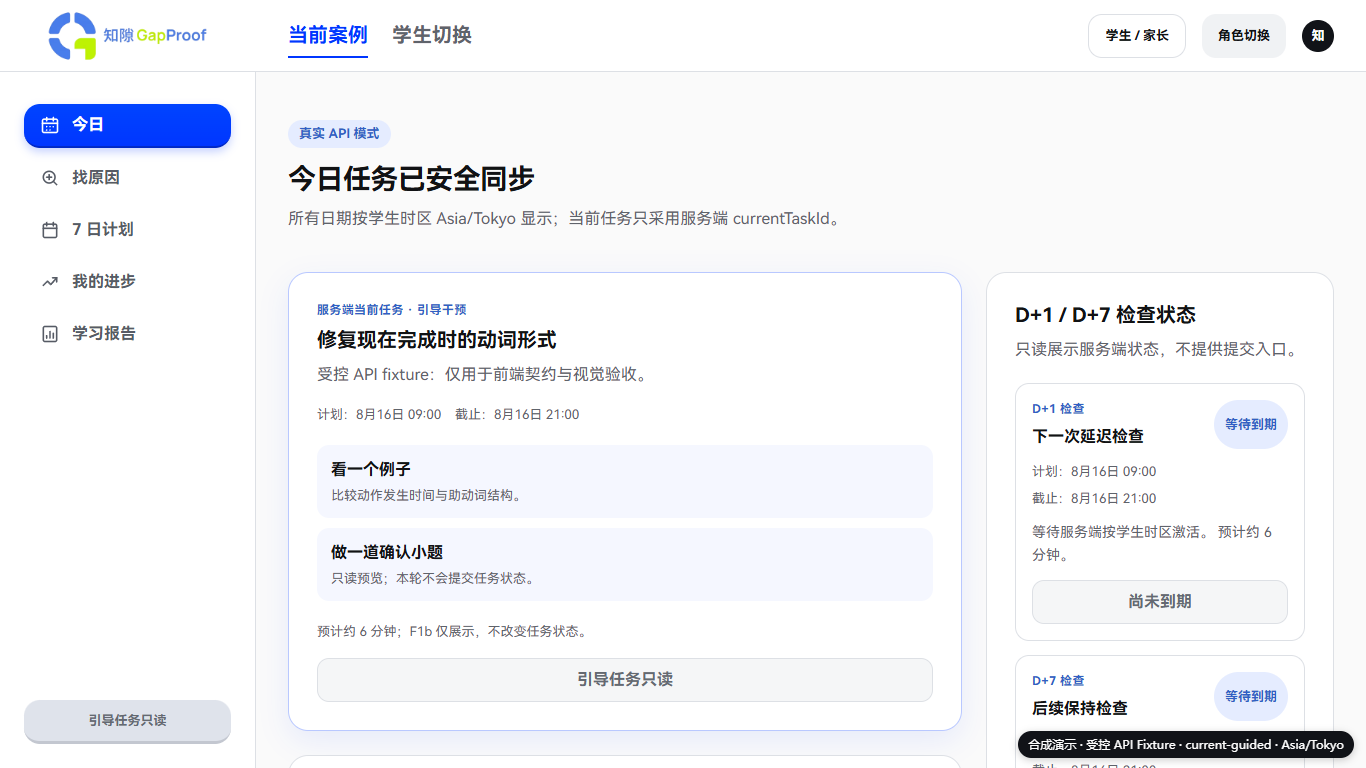
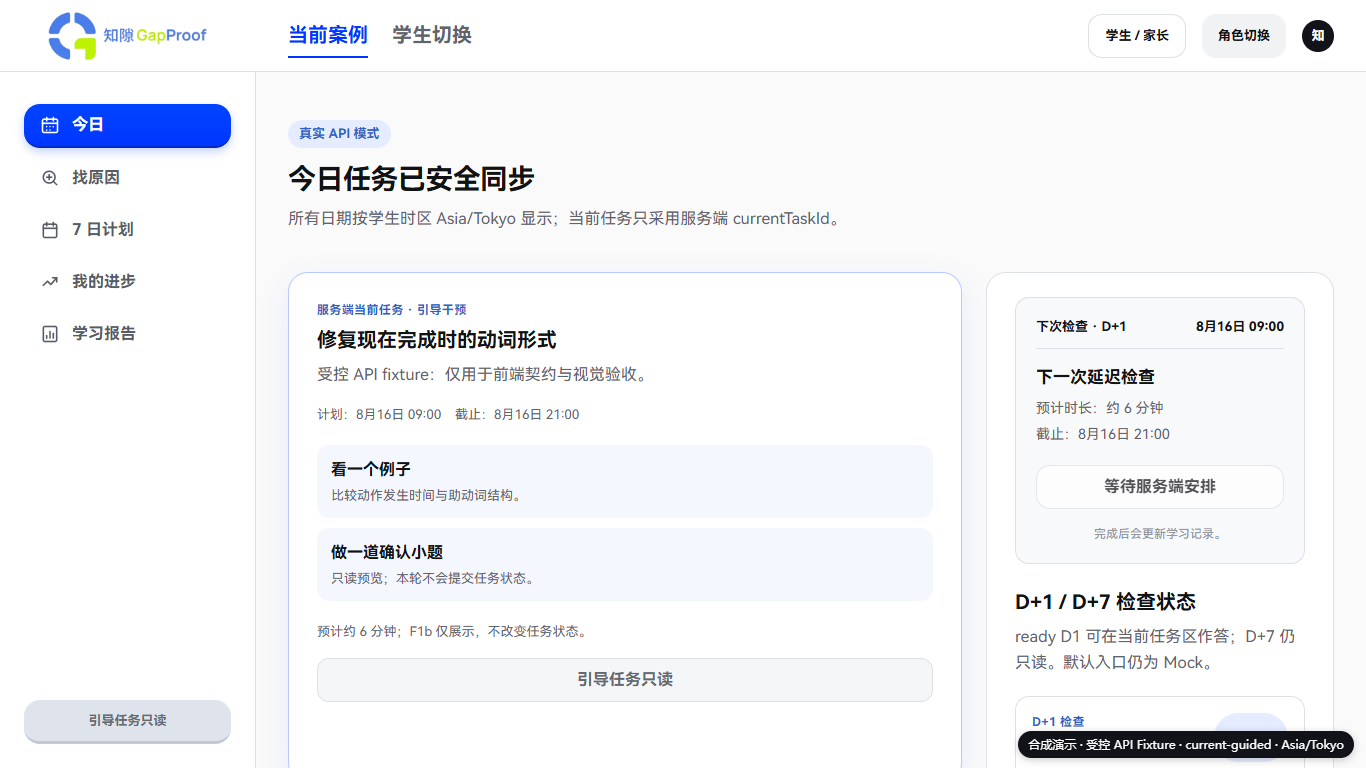
feat(web): render Today overview projection

Changed region(s): [[0.7379, 0.375, 0.9531, 0.9688], [0.8917, 0.875, 0.9531, 0.9688], [0.8917, 0.5312, 0.9531, 0.5625]]

diff --git a/apps/web/components/live-today.tsx b/apps/web/components/live-today.tsx
@@ -1,10 +1,11 @@
-import type { D1RetestTaskView, GuidedInterventionTaskView } from "@gapproof/contracts";
+import type { D1RetestTaskView, GuidedInterventionTaskView, TodayOverview } from "@gapproof/contracts";
 import { AppShell } from "./app-shell";
 import { D1AttemptPanel } from "./d1-attempt-panel";
 import { ApiClientError } from "@/lib/api-client";
 import { WebConfigurationError } from "@/lib/runtime-config";
 import {
   formatTaskDateTime,
+  TodayOverviewContractError,
   toTodayReadModel,
   type CurrentTaskSelection,
   type RetestTaskView,
@@ -20,6 +21,82 @@ function TaskDates({
     <span>计划：{formatTaskDateTime(scheduledFor, timeZone)}</span>
     {dueAt ? <span>截止：{formatTaskDateTime(dueAt, timeZone)}</span> : null}
   </div>;
+}
+
+function activityLevel(completedTaskCount: number): string {
+  return `activity-level-${Math.min(completedTaskCount, 3)}`;
+}
+
+const progressCopy: Record<TodayOverview["recentProgress"][number]["kind"], string> = {
+  recognition_confirmed: "学习材料已确认",
+  diagnosis_checked: "完成了一次学习检查",
+  practice_completed: "完成了一次练习",
+  d1_passed: "一次延迟检查已完成，下一次已安排",
+  d1_needs_followup: "这次检查后还需要再练习",
+  plan_adjusted: "后续学习安排已更新",
+};
+
+function OverviewActivity({ overview }: { overview: TodayOverview }) {
+  return <section className="overview-activity" aria-labelledby="activity-title">
+    <h3 id="activity-title">本周学习足迹</h3>
+    <div className="day-grid server-day-grid" role="list" aria-label="服务端记录的本周学习足迹">
+      {overview.activityDays.map((day, index) => <span
+        className={`${activityLevel(day.completedTaskCount)}${index === overview.activityDays.length - 1 ? " today" : ""}`}
+        data-local-date={day.localDate}
+        key={day.localDate}
+        role="listitem"
+        aria-label={`${day.localDate}，完成任务 ${day.completedTaskCount} 项`}
+        title={`${day.localDate}：完成任务 ${day.completedTaskCount} 项`}
+      />)}
+    </div>
+    <p>{overview.activityDays[overview.activityDays.length - 1]?.localDate} 为今天；颜色深浅仅表示服务端完成任务数。</p>
+  </section>;
+}
+
+function OverviewGoal({ overview }: { overview: TodayOverview }) {
+  return <section className="overview-goal" aria-labelledby="goal-title">
+    <h3 id="goal-title">本周目标</h3>
+    {overview.weeklyGoal
+      ? <p data-weekly-goal>{overview.weeklyGoal.completedDays} / {overview.weeklyGoal.targetDays} 天</p>
+      : <p data-weekly-goal="unset">目标待设置</p>}
+    <span>{overview.weeklyGoal ? "按服务端已设置的目标显示" : "暂无明确周目标"}</span>
+  </section>;
+}
+
+function OverviewPending({ overview }: { overview: TodayOverview }) {
+  const count = overview.pendingConfirmationCount;
+  return <article className="lime-card overview-fact-card" data-pending-confirmations={count}>
+    <div className="lime-heading"><h3>等你确认</h3></div>
+    <p>{count > 0 ? `有 ${count} 项内容等你确认。` : "当前没有待确认事项。"}</p>
+  </article>;
+}
+
+function OverviewProgress({ overview }: { overview: TodayOverview }) {
+  return <article className="lime-card overview-fact-card" data-recent-progress-count={overview.recentProgress.length}>
+    <div className="lime-heading"><h3>最近进展</h3></div>
+    {overview.recentProgress.length
+      ? <ul className="recent-progress-list">{overview.recentProgress.slice(0, 2).map(progress => <li key={progress.eventId}>{progressCopy[progress.kind]}</li>)}</ul>
+      : <p>暂无新的学习进展。</p>}
+  </article>;
+}
+
+export function TodayOverviewPanel({ overview }: { overview: TodayOverview }) {
+  return <article className="live-panel overview-panel" data-today-overview>
+    <h2>今日概览</h2>
+    <div className="overview-summary"><OverviewActivity overview={overview}/><OverviewGoal overview={overview}/></div>
+    <div className="overview-facts"><OverviewPending overview={overview}/><OverviewProgress overview={overview}/></div>
+  </article>;
+}
+
+export function OverviewNextCheck({ nextCheck, timeZone }: { nextCheck: TodayOverview["nextCheck"]; timeZone: string }) {
+  if (!nextCheck) return <section className="next-check" data-next-check="none"><header><span>下次检查</span><strong>尚未安排</strong></header><p>暂无已安排检查。</p></section>;
+  const cycle = nextCheck.taskType === "d7_retest" ? "D+7" : "D+1";
+  return <section className="next-check" data-next-check={nextCheck.taskType}>
+    <header><span>下次检查 · {cycle}</span><strong>{formatTaskDateTime(nextCheck.scheduledFor, timeZone)}</strong></header>
+    <div><h2>{nextCheck.title}</h2><p>预计时长：约 {nextCheck.estimatedMinutes} 分钟</p>{nextCheck.dueAt ? <p>截止：{formatTaskDateTime(nextCheck.dueAt, timeZone)}</p> : null}</div>
+    <button type="button" disabled>{nextCheck.taskType === "d7_retest" ? "D+7 检查只读" : "等待服务端安排"}</button>
+    <small>{nextCheck.taskType === "d7_retest" ? "D+7 作答尚未接入，本轮保持只读。" : "完成后会更新学习记录。"}</small>
+  </section>;
 }
 
 export function RetestCard({
@@ -128,6 +205,10 @@ function LiveError({ error }: { error: unknown }) {
     title = "学生时区无法用于日期显示";
     detail = "页面拒绝回退到浏览器、服务器或固定时区，请修正服务端学生时区。";
     code = "TODAY_TIME_ZONE_INVALID";
+  } else if (error instanceof TodayOverviewContractError) {
+    title = "今日概览暂不可用";
+    detail = "服务端尚未返回必需的今日概览数据；页面没有回退到 Mock。";
+    code = error.code;
   }
   return <AppShell actionDisabled actionLabel="等待配置">
     <section className="today-page"><div className="title-row"><div><span className="status-chip error">真实 API 模式</span><h1>{title}</h1><p>{detail}</p><div className="config-detail">{code}</div></div></div></section>
@@ -154,12 +235,9 @@ export async function LiveToday() {
         <div className="live-today-grid">
           <div className="live-main-column">
             <CurrentPanel current={model.current} timeZone={model.timeZone}/>
-            <article className="live-panel unavailable-panel"><h2>尚无真实首页投影</h2><div className="unavailable-list">
-              <div className="unavailable-row"><strong>本周学习足迹</strong><span>当前接口没有真实投影，未显示 Mock 数据。</span></div>
-              <div className="unavailable-row"><strong>周目标、待确认与最近进展</strong><span>当前接口没有真实投影，保持不可用态。</span></div>
-            </div></article>
+            <TodayOverviewPanel overview={model.overview}/>
           </div>
-          <aside className="live-panel"><h2>D+1 / D+7 检查状态</h2><p>ready D1 可在当前任务区作答；D+7 仍只读。默认入口仍为 Mock。</p><div className="retest-list">
+          <aside className="live-panel"><OverviewNextCheck nextCheck={model.overview.nextCheck} timeZone={model.timeZone}/><h2>D+1 / D+7 检查状态</h2><p>ready D1 可在当前任务区作答；D+7 仍只读。默认入口仍为 Mock。</p><div className="retest-list">
             {model.retests.length
               ? model.retests.map(retest => <RetestCard key={retest.id} retest={retest} timeZone={model.timeZone}/>)
               : <div className="unavailable-row"><strong>暂无延迟检查</strong><span>服务端创建后才会显示。</span></div>}

diff --git a/apps/web/app/globals.css b/apps/web/app/globals.css
@@ -41,4 +41,7 @@ a:focus-visible,button:focus-visible,summary:focus-visible{outline:2px solid var
 @media (max-width:900px){.fixed-action.disabled:after{content:"等待"}}
 @media (max-width:900px){.live-today-grid{grid-template-columns:1fr}}
 @media (max-width:640px){html,body{height:auto;min-height:100%;overflow:auto}.app-shell{display:block;height:auto;min-height:100vh;min-height:100dvh;overflow:visible}.topbar{height:64px;position:sticky;top:0}.brand-crop{width:150px;height:63px}.brand-source{width:158px!important;height:158px!important;left:-4px}.top-tabs,.top-actions,.sidebar{display:none}.mobile-menu{display:block;position:fixed;right:12px;top:10px;z-index:8}.mobile-menu summary{list-style:none;width:44px;height:44px;display:grid;place-items:center;border-radius:12px;background:var(--surface-2);cursor:pointer}.mobile-menu summary svg{width:24px}.mobile-menu nav{position:absolute;right:0;top:50px;width:190px;display:grid;padding:10px;background:#fff;border:1px solid var(--border);border-radius:14px;box-shadow:0 12px 32px rgba(17,18,20,.12)}.mobile-menu nav a{min-height:44px;padding:8px 12px}.content{height:auto;min-height:calc(100vh - 64px);overflow:visible;overscroll-behavior:auto}.today-page,.placeholder-page{padding:24px 18px 92px}.title-row{display:block;margin-bottom:24px}.title-row h1,.placeholder-page h1{font-size:27px}.date-summary{text-align:left;margin-top:14px}.today-grid{display:block}.hero-card{height:auto;min-height:460px;padding:24px 20px}.hero-meta{align-items:flex-start;gap:8px;flex-wrap:wrap}.hero-card h2{font-size:25px}.steps{align-items:stretch;flex-direction:column;margin:26px 0}.steps li+li:before{display:none}.overview{padding:18px;margin-bottom:22px}.overview-grid,.onboarding-notes{grid-template-columns:1fr}.right-column{display:grid;grid-template-columns:1fr}.day-grid{gap:7px}.onboarding-main{padding:24px 18px}.button-row{align-items:stretch;flex-direction:column}.ghost-link{justify-content:center}.state-card{padding:28px 20px;display:block}.state-card>svg{margin-bottom:20px}.sk-title{width:100%}.sk-line{width:80%}.sk-hero{height:440px}.right-column{margin-top:24px}}
+
+.overview-panel h2{margin-bottom:20px}.overview-summary{display:grid;grid-template-columns:minmax(0,1.5fr) minmax(180px,1fr);gap:24px}.overview-activity h3,.overview-goal h3{font-size:15px;line-height:22px;margin:0 0 12px}.overview-activity p,.overview-goal span{display:block;color:var(--ink-2);font-size:13px;line-height:20px;margin:0}.server-day-grid{grid-template-columns:repeat(7,32px);margin-bottom:20px}.server-day-grid .activity-level-0{background:#eef0f2}.server-day-grid .activity-level-1{background:#b8c7ff}.server-day-grid .activity-level-2{background:#5577ff}.server-day-grid .activity-level-3{background:#0036ff}.server-day-grid .today{outline:2px solid #0036ff;outline-offset:2px}.overview-goal{padding:16px;border:1px solid var(--border);border-radius:14px;background:#f8f9fb}.overview-goal p{font-size:24px;line-height:32px;font-weight:750;margin:0 0 4px}.overview-facts{display:grid;grid-template-columns:1fr 1fr;gap:16px;margin-top:24px}.overview-fact-card{min-height:142px}.overview-fact-card p{max-width:100%}.recent-progress-list{display:grid;gap:8px;margin:0;padding:0;list-style:none;font-size:14px;line-height:21px;position:relative;z-index:2}.next-check{margin-bottom:24px}.next-check p{margin:0 0 4px}.next-check button{cursor:default}.next-check button:disabled{opacity:.72}.live-panel>.next-check{box-shadow:none;border-radius:14px;margin:-4px 0 24px;padding:20px;background:#f8f9fb}.live-panel>.next-check header{font-size:13px}.live-panel>.next-check h2{font-size:17px;line-height:24px}.live-panel>.next-check small{color:var(--ink-3)}
+@media (max-width:640px){.overview-summary,.overview-facts{grid-template-columns:1fr}}
 @media (prefers-reduced-motion:reduce){*,*:before,*:after{scroll-behavior:auto!important;animation-duration:.01ms!important;animation-iteration-count:1!important;transition-duration:.01ms!important}}

diff --git a/apps/web/components/live-today.test.tsx b/apps/web/components/live-today.test.tsx
@@ -1,8 +1,8 @@
-import type { D1RetestTaskView, D7RetestTaskView } from "@gapproof/contracts";
+import type { D1RetestTaskView, D7RetestTaskView, TodayOverview } from "@gapproof/contracts";
 import { createElement } from "react";
 import { renderToStaticMarkup } from "react-dom/server";
 import { describe, expect, it, vi } from "vitest";
-import { RetestCard } from "./live-today";
+import { OverviewNextCheck, RetestCard, TodayOverviewPanel } from "./live-today";
 
 vi.mock("server-only", () => ({}));
 
@@ -57,5 +57,66 @@ describe("D+1/D+7 read-only cards", () => {
     expect(d7).toContain("D+7 检查只读");
     expect(d7).toContain("只读待接入");
     expect(d7).not.toContain("可以检查");
+  });
+});
+
+const overview: TodayOverview = {
+  activityDays: Array.from({ length: 7 }, (_, index) => ({
+    localDate: `2026-08-${String(10 + index).padStart(2, "0")}`,
+    completedTaskCount: index === 6 ? 2 : index === 5 ? 1 : 0,
+  })),
+  weeklyGoal: { targetDays: 5, completedDays: 2 },
+  pendingConfirmationCount: 2,
+  recentProgress: [{
+    eventId: "0198b111-1111-7000-8000-000000000030",
+    caseId: "22222222-2222-4222-8222-222222222222",
+    kind: "practice_completed",
+    occurredAt: "2026-08-15T01:00:00.000Z",
+  }],
+  nextCheck: {
+    taskId: "0198b111-1111-7000-8000-000000000021",
+    taskType: "d7_retest",
+    title: "D+7 延迟检查",
+    scheduledFor: "2026-08-22T01:00:00.000Z",
+    dueAt: "2026-08-22T13:00:00.000Z",
+    estimatedMinutes: 5,
+  },
+};
+
+describe("Today overview projection", () => {
+  it("renders only service facts and neutral progress copy", () => {
+    const html = renderToStaticMarkup(createElement(TodayOverviewPanel, { overview }));
+    expect(html).toContain('data-local-date="2026-08-16"');
+    expect(html).toContain('data-pending-confirmations="2"');
+    expect(html).toContain("2 / 5 天");
+    expect(html).toContain("完成了一次练习");
+    expect(html).not.toContain("eventId");
+    expect(html).not.toContain("caseId");
+    expect(html).not.toContain("已掌握");
+  });
+
+  it("keeps a D7 next check read-only and handles no check", () => {
+    const d7 = renderToStaticMarkup(createElement(OverviewNextCheck, { nextCheck: overview.nextCheck, timeZone: "Asia/Tokyo" }));
+    expect(d7).toContain("D+7 检查只读");
+    expect(d7).toContain("disabled");
+    const none = renderToStaticMarkup(createElement(OverviewNextCheck, { nextCheck: null, timeZone: "Asia/Tokyo" }));
+    expect(none).toContain("暂无已安排检查");
+  });
+
+  it("does not invent activity or progress for a new-user overview", () => {
+    const empty: TodayOverview = {
+      ...overview,
+      activityDays: overview.activityDays.map(day => ({ ...day, completedTaskCount: 0 })),
+      weeklyGoal: null,
+      pendingConfirmationCount: 0,
+      recentProgress: [],
+      nextCheck: null,
+    };
+    const html = renderToStaticMarkup(createElement(TodayOverviewPanel, { overview: empty }));
+    expect(html).toContain("目标待设置");
+    expect(html).toContain("当前没有待确认事项");
+    expect(html).toContain("暂无新的学习进展");
+    expect(html).not.toContain("坚持");
+    expect(html).not.toContain("2 / 5 天");
   });
 });

diff --git a/apps/web/lib/today-adapter.test.ts b/apps/web/lib/today-adapter.test.ts
@@ -3,14 +3,25 @@ import type {
   D7RetestTaskView,
   GuidedInterventionTaskView,
   LearningTaskView,
+  TodayOverview,
   TodayTasksView,
 } from "@gapproof/contracts";
 import { describe, expect, it } from "vitest";
-import { formatTaskDateTime, toTodayReadModel } from "./today-adapter";
+import { formatTaskDateTime, TodayOverviewContractError, toTodayReadModel } from "./today-adapter";
 
 const studentId = "11111111-1111-4111-8111-111111111111";
 const caseId = "22222222-2222-4222-8222-222222222222";
 const scheduledFor = "2026-08-16T12:00:00.000Z";
+const overview: TodayOverview = {
+  activityDays: Array.from({ length: 7 }, (_, index) => ({
+    localDate: `2026-08-${String(10 + index).padStart(2, "0")}`,
+    completedTaskCount: index === 6 ? 1 : 0,
+  })),
+  weeklyGoal: null,
+  pendingConfirmationCount: 0,
+  recentProgress: [],
+  nextCheck: null,
+};
 
 function base(id: string, status: LearningTaskView["status"]) {
   return {
@@ -57,7 +68,7 @@ function retest(
 }
 
 function today(tasks: LearningTaskView[], currentTaskId: string | null): TodayTasksView {
-  return { studentId, timeZone: "Asia/Tokyo", currentTaskId, tasks };
+  return { studentId, timeZone: "Asia/Tokyo", currentTaskId, tasks, overview };
 }
 
 describe("Today contract adapter", () => {
@@ -109,6 +120,17 @@ describe("Today contract adapter", () => {
       ["d1_retest", "scheduled"],
       ["d7_retest", "completed"],
     ]);
+  });
+
+  it("requires overview in explicit API mode instead of allowing a Mock fallback", () => {
+    const withoutOverview = { ...today([], null) };
+    delete withoutOverview.overview;
+    expect(() => toTodayReadModel(withoutOverview)).toThrow(TodayOverviewContractError);
+  });
+
+  it("keeps overview facts unchanged for the rendering boundary", () => {
+    const model = toTodayReadModel(today([], null));
+    expect(model.overview).toBe(overview);
   });
 
   it("formats task dates only in the response time zone", () => {

diff --git a/apps/web/lib/today-adapter.ts b/apps/web/lib/today-adapter.ts
@@ -3,6 +3,7 @@ import type {
   D7RetestTaskView,
   GuidedInterventionTaskView,
   LearningTaskView,
+  TodayOverview,
   TodayTasksView,
 } from "@gapproof/contracts";
 
@@ -27,7 +28,17 @@ export type TodayReadModel = {
   taskCount: number;
   current: CurrentTaskSelection;
   retests: RetestTaskView[];
+  overview: TodayOverview;
 };
+
+export class TodayOverviewContractError extends Error {
+  readonly code = "TODAY_OVERVIEW_MISSING" as const;
+
+  constructor() {
+    super("Today overview is required in explicit API mode.");
+    this.name = "TodayOverviewContractError";
+  }
+}
 
 function requireUsableTimeZone(timeZone: string): void {
   // The API validates the student's IANA time zone. Recheck at the rendering
@@ -59,6 +70,7 @@ function selectCurrentTask(view: TodayTasksView): CurrentTaskSelection {
 
 export function toTodayReadModel(view: TodayTasksView): TodayReadModel {
   requireUsableTimeZone(view.timeZone);
+  if (!view.overview) throw new TodayOverviewContractError();
   return {
     studentId: view.studentId,
     timeZone: view.timeZone,
@@ -69,6 +81,7 @@ export function toTodayReadModel(view: TodayTasksView): TodayReadModel {
     retests: view.tasks.filter(
       (task): task is RetestTaskView => task.taskType !== "guided_intervention",
     ),
+    overview: view.overview,
   };
 }
 

diff --git a/apps/web/lib/today-server.test.ts b/apps/web/lib/today-server.test.ts
@@ -20,7 +20,19 @@ describe("server-side Today fetch", () => {
     process.env.GAPPROOF_API_ORIGIN = "http://127.0.0.1:3001";
     process.env.GAPPROOF_DEMO_STUDENT_ID = studentId;
     const fetchMock = vi.fn().mockResolvedValue(new Response(JSON.stringify({
-      data: { studentId, timeZone: "Asia/Tokyo", currentTaskId: null, tasks: [] },
+      data: {
+        studentId,
+        timeZone: "Asia/Tokyo",
+        currentTaskId: null,
+        tasks: [],
+        overview: {
+          activityDays: Array.from({ length: 7 }, (_, index) => ({ localDate: `2026-08-${String(10 + index).padStart(2, "0")}`, completedTaskCount: 0 })),
+          weeklyGoal: null,
+          pendingConfirmationCount: 0,
+          recentProgress: [],
+          nextCheck: null,
+        },
+      },
       requestId: "request-1",
       traceId: "trace-1",
     }), { status: 200 }));
